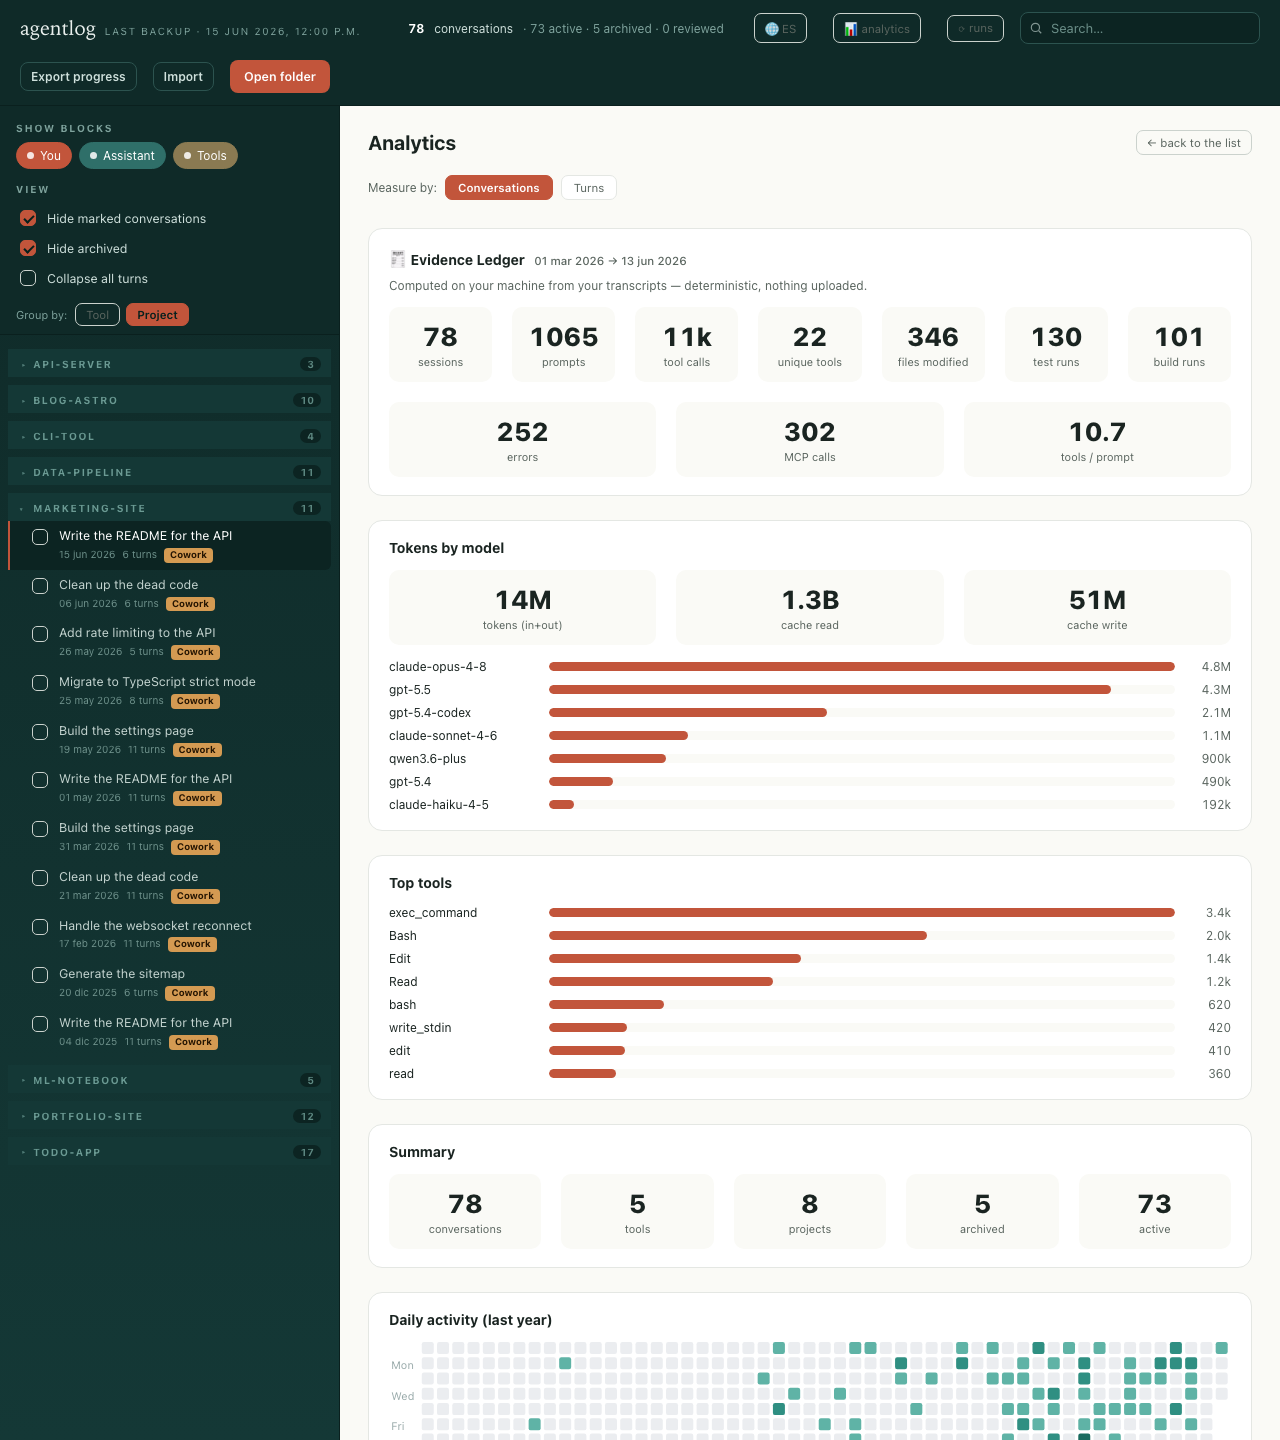
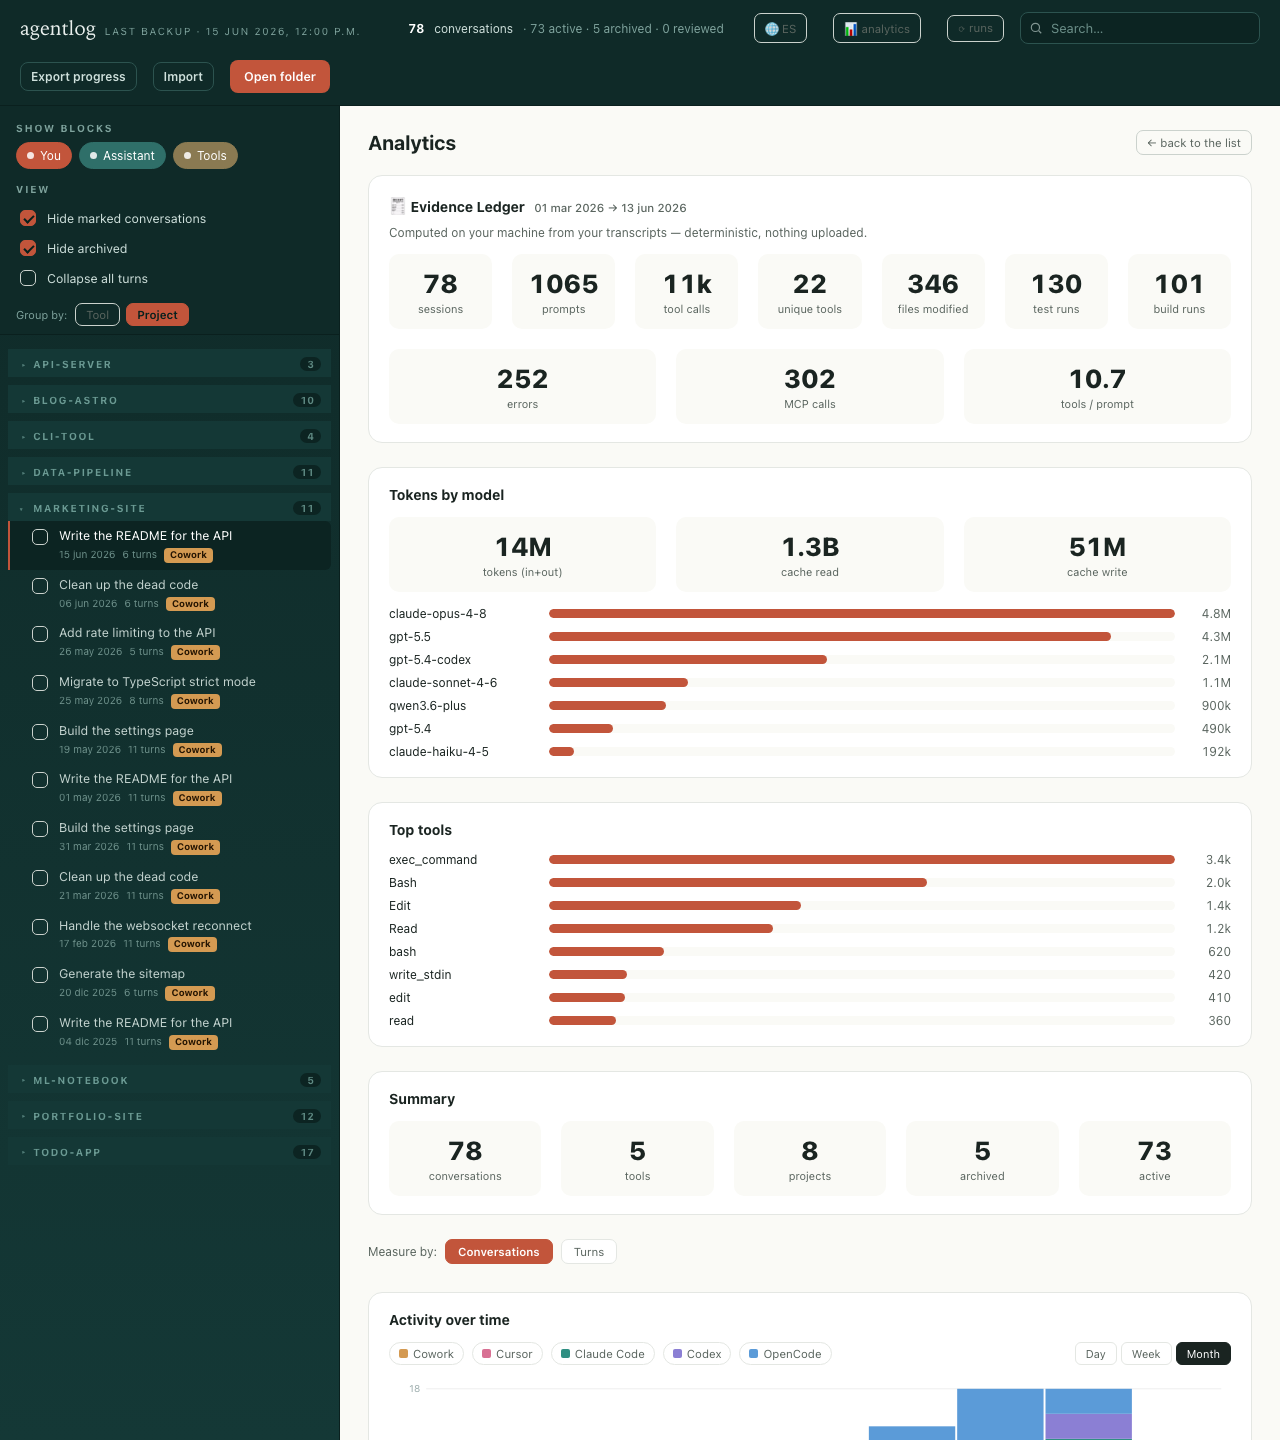
Analytics: tool tooltips + logical card order
- Top tools bars now show a styled tooltip (name · what it does · call count),
  with a bilingual tool-description dictionary; generalize the analytics tooltip
  handler from SVG-only to any [data-tip] element.
- Reorder Analytics cards logically: Evidence Ledger overview (counters → tokens →
  tools) → collection Summary → the "Measure by" toggle now sits right above the
  charts it controls (activity → daily heatmap → top projects).
- Refresh hero.gif + analytics screenshots (EN/ES) for the new order.

diff --git a/docs/index.html b/docs/index.html
@@ -67,6 +67,8 @@
   .lg-grid .an-stat{min-width:92px}
   .lg-bars{display:flex;flex-direction:column;gap:8px;margin-top:14px}
   .lg-bar-row{display:flex;align-items:center;gap:10px;font-size:12px}
+  .lg-bar-row[data-tip]{cursor:help}
+  .lg-bar-row[data-tip]:hover .lg-bar-name{color:var(--you)}
   .lg-bar-name{flex:0 0 150px;color:var(--ink);overflow:hidden;text-overflow:ellipsis;white-space:nowrap}
   .lg-bar-track{flex:1;height:9px;background:var(--paper);border-radius:5px;overflow:hidden}
   .lg-bar-fill{display:block;height:100%;background:var(--you);border-radius:5px}
@@ -364,7 +366,8 @@ const I18N = {
     lg_unique_tools:"unique tools", lg_files:"files modified", lg_tests:"test runs",
     lg_builds:"build runs", lg_errors:"errors", lg_mcp:"MCP calls", lg_tpp:"tools / prompt",
     lg_tokens_title:"Tokens by model", lg_top_tools:"Top tools", lg_total_tokens:"tokens (in+out)",
-    lg_cache_read:"cache read", lg_cache_write:"cache write", lg_range:"activity",
+    lg_cache_read:"cache read", lg_cache_write:"cache write", lg_range:"activity", lg_calls:"calls",
+    tool_desc:{shell:"Runs a shell command", edit:"Edits a file in place", write:"Writes a new file", read:"Reads a file", grep:"Searches file contents (regex)", glob:"Finds files by name pattern", notebook:"Edits a Jupyter notebook", websearch:"Searches the web", webfetch:"Fetches a URL", plan:"Updates the task / plan list", agent:"Spawns a sub-agent", ask:"Asks the user a question", patch:"Applies a code patch", stdin:"Sends input to a running process", toolsearch:"Looks up available tools", mcp:"MCP tool", other:"Tool"},
   },
   es: {
     doc_title:"agentlog · Visor de sesiones",
@@ -402,7 +405,8 @@ const I18N = {
     lg_unique_tools:"tools únicas", lg_files:"archivos modificados", lg_tests:"corridas de test",
     lg_builds:"builds", lg_errors:"errores", lg_mcp:"llamadas MCP", lg_tpp:"tools / prompt",
     lg_tokens_title:"Tokens por modelo", lg_top_tools:"Top tools", lg_total_tokens:"tokens (in+out)",
-    lg_cache_read:"caché leído", lg_cache_write:"caché escrito", lg_range:"actividad",
+    lg_cache_read:"caché leído", lg_cache_write:"caché escrito", lg_range:"actividad", lg_calls:"llamadas",
+    tool_desc:{shell:"Corre un comando de shell", edit:"Edita un archivo", write:"Escribe un archivo nuevo", read:"Lee un archivo", grep:"Busca en el contenido (regex)", glob:"Busca archivos por patrón", notebook:"Edita un notebook Jupyter", websearch:"Busca en la web", webfetch:"Trae una URL", plan:"Actualiza la lista de tareas / plan", agent:"Lanza un sub-agente", ask:"Le pregunta al usuario", patch:"Aplica un patch de código", stdin:"Manda input a un proceso", toolsearch:"Busca tools disponibles", mcp:"Tool MCP", other:"Tool"},
   }
 };
 function t(k){ const d=I18N[state.lang]||I18N.en; return (k in d)?d[k]:(I18N.en[k]!==undefined?I18N.en[k]:k); }
@@ -746,18 +750,19 @@ function renderAnalytics(){
     <button class="am-btn ${AN.metric==='conv'?'active':''}" data-m="conv">${t("conversations_btn")}</button>
     <button class="am-btn ${AN.metric==='turns'?'active':''}" data-m="turns">${t("turns_btn")}</button>`;
   mc.querySelectorAll(".am-btn").forEach(b=>b.addEventListener("click",()=>{ AN.metric=b.dataset.m; renderAnalytics(); }));
-  grid.appendChild(mc);
-  // Evidence Ledger (deterministic, from _ledger.json) goes first, if present
+  // Logical order: deterministic Evidence Ledger overview first (counters →
+  // tokens → tools), then the collection summary, then the metric toggle sitting
+  // right above the charts it actually controls (activity → heatmap → projects).
   if(state.ledger){
     grid.appendChild(cardLedger(state.ledger));
     grid.appendChild(cardTokensByModel(state.ledger));
     grid.appendChild(cardTopTools(state.ledger));
   }
-  // order: summary, heatmap, top, activity
   grid.appendChild(cardSummary(sesiones));
+  grid.appendChild(mc);
+  grid.appendChild(cardStackedArea(sesiones));
   grid.appendChild(cardHeatmap(sesiones));
   grid.appendChild(cardTopProjects(sesiones));
-  grid.appendChild(cardStackedArea(sesiones));
   setupTooltips();
 }
 
@@ -766,7 +771,7 @@ function setupTooltips(){
   const grid=document.getElementById("anGrid");
   if(grid._tipBound) return; grid._tipBound=true;
   grid.addEventListener("mouseover",e=>{
-    const r=e.target.closest("rect[data-tip]"); if(!r) return;
+    const r=e.target.closest("[data-tip]"); if(!r) return;
     tip.innerHTML=r.getAttribute("data-tip"); tip.classList.add("show");
   });
   grid.addEventListener("mousemove",e=>{
@@ -778,7 +783,7 @@ function setupTooltips(){
     tip.style.left=x+"px"; tip.style.top=y+"px";
   });
   grid.addEventListener("mouseout",e=>{
-    if(e.target.closest("rect[data-tip]")) tip.classList.remove("show");
+    if(e.target.closest("[data-tip]")) tip.classList.remove("show");
   });
 }
 
@@ -1024,6 +1029,31 @@ function cardTokensByModel(lg){
   return card;
 }
 
+// Map raw tool names (across tools) to a canonical description key.
+const TOOL_ALIASES={
+  bash:"shell", shell_command:"shell", exec_command:"shell", run_terminal:"shell",
+  run_terminal_cmd:"shell", terminal:"shell",
+  edit:"edit", multiedit:"edit", edit_file:"edit", str_replace_editor:"edit",
+  apply_patch:"patch",
+  write:"write", create_file:"write", createfile:"write", write_file:"write",
+  read:"read", read_file:"read", readfile:"read",
+  grep:"grep", glob:"glob", notebookedit:"notebook",
+  websearch:"websearch", web_search:"websearch", webfetch:"webfetch", web_fetch:"webfetch",
+  todowrite:"plan", update_plan:"plan", todo:"plan",
+  task:"agent", dispatch_agent:"agent",
+  askuserquestion:"ask", write_stdin:"stdin", toolsearch:"toolsearch",
+};
+function toolDesc(name){
+  const d=(I18N[state.lang]||I18N.en).tool_desc||{};
+  if(name.startsWith("mcp__")){
+    const parts=name.slice(5).split("__");
+    const server=(parts[0]||"").replace(/_/g," "), tool=(parts.slice(1).join(" ")||"").replace(/_/g," ");
+    return (d.mcp||"MCP tool")+(server?` · ${server}`:"")+(tool?` · ${tool}`:"");
+  }
+  const key=TOOL_ALIASES[name.toLowerCase()];
+  return (key&&d[key])||d.other||name;
+}
+
 function cardTopTools(lg){
   const card=document.createElement("div"); card.className="an-card";
   card.innerHTML=`<h3>${t("lg_top_tools")}</h3>`;
@@ -1032,7 +1062,8 @@ function cardTopTools(lg){
   const wrap=document.createElement("div"); wrap.className="lg-bars";
   wrap.innerHTML=tools.map(([name,n])=>{
     const nm=name.startsWith("mcp__")?name.replace(/^mcp__/,"").replace(/_/g," "):name;
-    return `<div class="lg-bar-row"><span class="lg-bar-name" title="${escapeHtml(name)}">${escapeHtml(nm)}</span>`+
+    const tip=`<b>${escapeHtml(name)}</b><br>${escapeHtml(toolDesc(name))}<br><span style='opacity:.7'>${fmtNum(n)} ${t("lg_calls")}</span>`;
+    return `<div class="lg-bar-row" data-tip="${tip}"><span class="lg-bar-name">${escapeHtml(nm)}</span>`+
     `<span class="lg-bar-track"><span class="lg-bar-fill" style="width:${Math.max(n/max*100,1.5)}%"></span></span>`+
     `<span class="lg-bar-val">${fmtNum(n)}</span></div>`;
   }).join("");

diff --git a/viewer.html b/viewer.html
@@ -67,6 +67,8 @@
   .lg-grid .an-stat{min-width:92px}
   .lg-bars{display:flex;flex-direction:column;gap:8px;margin-top:14px}
   .lg-bar-row{display:flex;align-items:center;gap:10px;font-size:12px}
+  .lg-bar-row[data-tip]{cursor:help}
+  .lg-bar-row[data-tip]:hover .lg-bar-name{color:var(--you)}
   .lg-bar-name{flex:0 0 150px;color:var(--ink);overflow:hidden;text-overflow:ellipsis;white-space:nowrap}
   .lg-bar-track{flex:1;height:9px;background:var(--paper);border-radius:5px;overflow:hidden}
   .lg-bar-fill{display:block;height:100%;background:var(--you);border-radius:5px}
@@ -364,7 +366,8 @@ const I18N = {
     lg_unique_tools:"unique tools", lg_files:"files modified", lg_tests:"test runs",
     lg_builds:"build runs", lg_errors:"errors", lg_mcp:"MCP calls", lg_tpp:"tools / prompt",
     lg_tokens_title:"Tokens by model", lg_top_tools:"Top tools", lg_total_tokens:"tokens (in+out)",
-    lg_cache_read:"cache read", lg_cache_write:"cache write", lg_range:"activity",
+    lg_cache_read:"cache read", lg_cache_write:"cache write", lg_range:"activity", lg_calls:"calls",
+    tool_desc:{shell:"Runs a shell command", edit:"Edits a file in place", write:"Writes a new file", read:"Reads a file", grep:"Searches file contents (regex)", glob:"Finds files by name pattern", notebook:"Edits a Jupyter notebook", websearch:"Searches the web", webfetch:"Fetches a URL", plan:"Updates the task / plan list", agent:"Spawns a sub-agent", ask:"Asks the user a question", patch:"Applies a code patch", stdin:"Sends input to a running process", toolsearch:"Looks up available tools", mcp:"MCP tool", other:"Tool"},
   },
   es: {
     doc_title:"agentlog · Visor de sesiones",
@@ -402,7 +405,8 @@ const I18N = {
     lg_unique_tools:"tools únicas", lg_files:"archivos modificados", lg_tests:"corridas de test",
     lg_builds:"builds", lg_errors:"errores", lg_mcp:"llamadas MCP", lg_tpp:"tools / prompt",
     lg_tokens_title:"Tokens por modelo", lg_top_tools:"Top tools", lg_total_tokens:"tokens (in+out)",
-    lg_cache_read:"caché leído", lg_cache_write:"caché escrito", lg_range:"actividad",
+    lg_cache_read:"caché leído", lg_cache_write:"caché escrito", lg_range:"actividad", lg_calls:"llamadas",
+    tool_desc:{shell:"Corre un comando de shell", edit:"Edita un archivo", write:"Escribe un archivo nuevo", read:"Lee un archivo", grep:"Busca en el contenido (regex)", glob:"Busca archivos por patrón", notebook:"Edita un notebook Jupyter", websearch:"Busca en la web", webfetch:"Trae una URL", plan:"Actualiza la lista de tareas / plan", agent:"Lanza un sub-agente", ask:"Le pregunta al usuario", patch:"Aplica un patch de código", stdin:"Manda input a un proceso", toolsearch:"Busca tools disponibles", mcp:"Tool MCP", other:"Tool"},
   }
 };
 function t(k){ const d=I18N[state.lang]||I18N.en; return (k in d)?d[k]:(I18N.en[k]!==undefined?I18N.en[k]:k); }
@@ -746,18 +750,19 @@ function renderAnalytics(){
     <button class="am-btn ${AN.metric==='conv'?'active':''}" data-m="conv">${t("conversations_btn")}</button>
     <button class="am-btn ${AN.metric==='turns'?'active':''}" data-m="turns">${t("turns_btn")}</button>`;
   mc.querySelectorAll(".am-btn").forEach(b=>b.addEventListener("click",()=>{ AN.metric=b.dataset.m; renderAnalytics(); }));
-  grid.appendChild(mc);
-  // Evidence Ledger (deterministic, from _ledger.json) goes first, if present
+  // Logical order: deterministic Evidence Ledger overview first (counters →
+  // tokens → tools), then the collection summary, then the metric toggle sitting
+  // right above the charts it actually controls (activity → heatmap → projects).
   if(state.ledger){
     grid.appendChild(cardLedger(state.ledger));
     grid.appendChild(cardTokensByModel(state.ledger));
     grid.appendChild(cardTopTools(state.ledger));
   }
-  // order: summary, heatmap, top, activity
   grid.appendChild(cardSummary(sesiones));
+  grid.appendChild(mc);
+  grid.appendChild(cardStackedArea(sesiones));
   grid.appendChild(cardHeatmap(sesiones));
   grid.appendChild(cardTopProjects(sesiones));
-  grid.appendChild(cardStackedArea(sesiones));
   setupTooltips();
 }
 
@@ -766,7 +771,7 @@ function setupTooltips(){
   const grid=document.getElementById("anGrid");
   if(grid._tipBound) return; grid._tipBound=true;
   grid.addEventListener("mouseover",e=>{
-    const r=e.target.closest("rect[data-tip]"); if(!r) return;
+    const r=e.target.closest("[data-tip]"); if(!r) return;
     tip.innerHTML=r.getAttribute("data-tip"); tip.classList.add("show");
   });
   grid.addEventListener("mousemove",e=>{
@@ -778,7 +783,7 @@ function setupTooltips(){
     tip.style.left=x+"px"; tip.style.top=y+"px";
   });
   grid.addEventListener("mouseout",e=>{
-    if(e.target.closest("rect[data-tip]")) tip.classList.remove("show");
+    if(e.target.closest("[data-tip]")) tip.classList.remove("show");
   });
 }
 
@@ -1024,6 +1029,31 @@ function cardTokensByModel(lg){
   return card;
 }
 
+// Map raw tool names (across tools) to a canonical description key.
+const TOOL_ALIASES={
+  bash:"shell", shell_command:"shell", exec_command:"shell", run_terminal:"shell",
+  run_terminal_cmd:"shell", terminal:"shell",
+  edit:"edit", multiedit:"edit", edit_file:"edit", str_replace_editor:"edit",
+  apply_patch:"patch",
+  write:"write", create_file:"write", createfile:"write", write_file:"write",
+  read:"read", read_file:"read", readfile:"read",
+  grep:"grep", glob:"glob", notebookedit:"notebook",
+  websearch:"websearch", web_search:"websearch", webfetch:"webfetch", web_fetch:"webfetch",
+  todowrite:"plan", update_plan:"plan", todo:"plan",
+  task:"agent", dispatch_agent:"agent",
+  askuserquestion:"ask", write_stdin:"stdin", toolsearch:"toolsearch",
+};
+function toolDesc(name){
+  const d=(I18N[state.lang]||I18N.en).tool_desc||{};
+  if(name.startsWith("mcp__")){
+    const parts=name.slice(5).split("__");
+    const server=(parts[0]||"").replace(/_/g," "), tool=(parts.slice(1).join(" ")||"").replace(/_/g," ");
+    return (d.mcp||"MCP tool")+(server?` · ${server}`:"")+(tool?` · ${tool}`:"");
+  }
+  const key=TOOL_ALIASES[name.toLowerCase()];
+  return (key&&d[key])||d.other||name;
+}
+
 function cardTopTools(lg){
   const card=document.createElement("div"); card.className="an-card";
   card.innerHTML=`<h3>${t("lg_top_tools")}</h3>`;
@@ -1032,7 +1062,8 @@ function cardTopTools(lg){
   const wrap=document.createElement("div"); wrap.className="lg-bars";
   wrap.innerHTML=tools.map(([name,n])=>{
     const nm=name.startsWith("mcp__")?name.replace(/^mcp__/,"").replace(/_/g," "):name;
-    return `<div class="lg-bar-row"><span class="lg-bar-name" title="${escapeHtml(name)}">${escapeHtml(nm)}</span>`+
+    const tip=`<b>${escapeHtml(name)}</b><br>${escapeHtml(toolDesc(name))}<br><span style='opacity:.7'>${fmtNum(n)} ${t("lg_calls")}</span>`;
+    return `<div class="lg-bar-row" data-tip="${tip}"><span class="lg-bar-name">${escapeHtml(nm)}</span>`+
     `<span class="lg-bar-track"><span class="lg-bar-fill" style="width:${Math.max(n/max*100,1.5)}%"></span></span>`+
     `<span class="lg-bar-val">${fmtNum(n)}</span></div>`;
   }).join("");